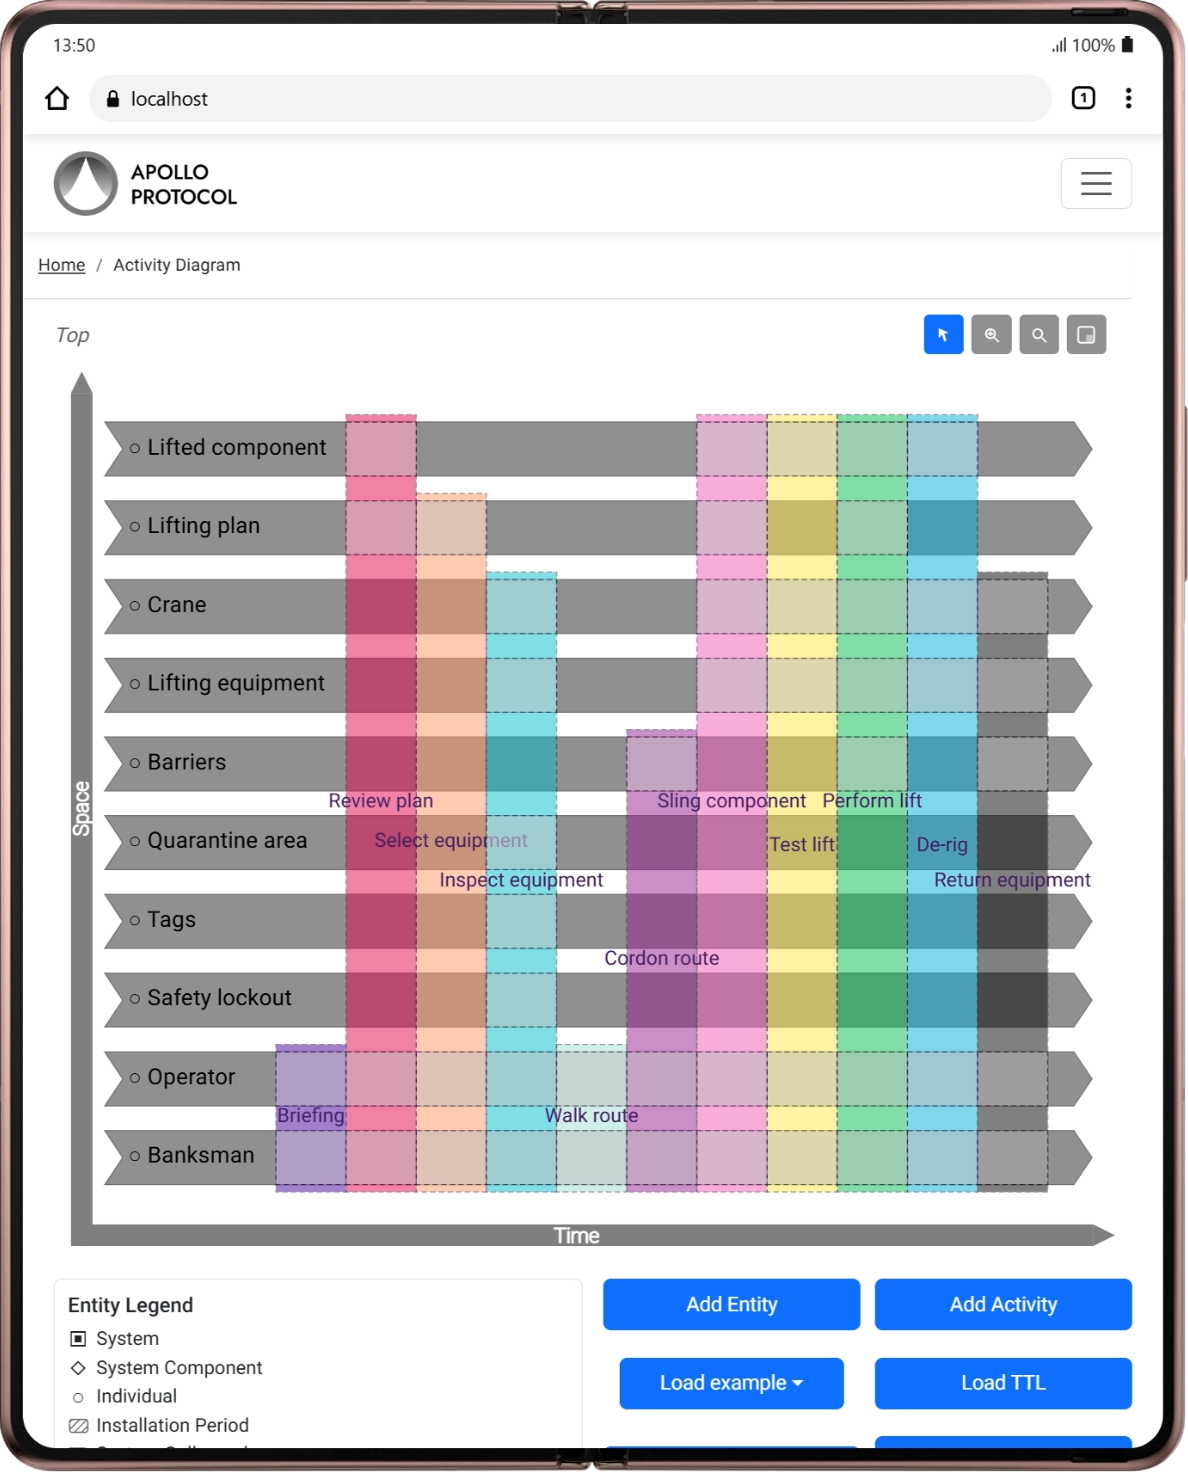
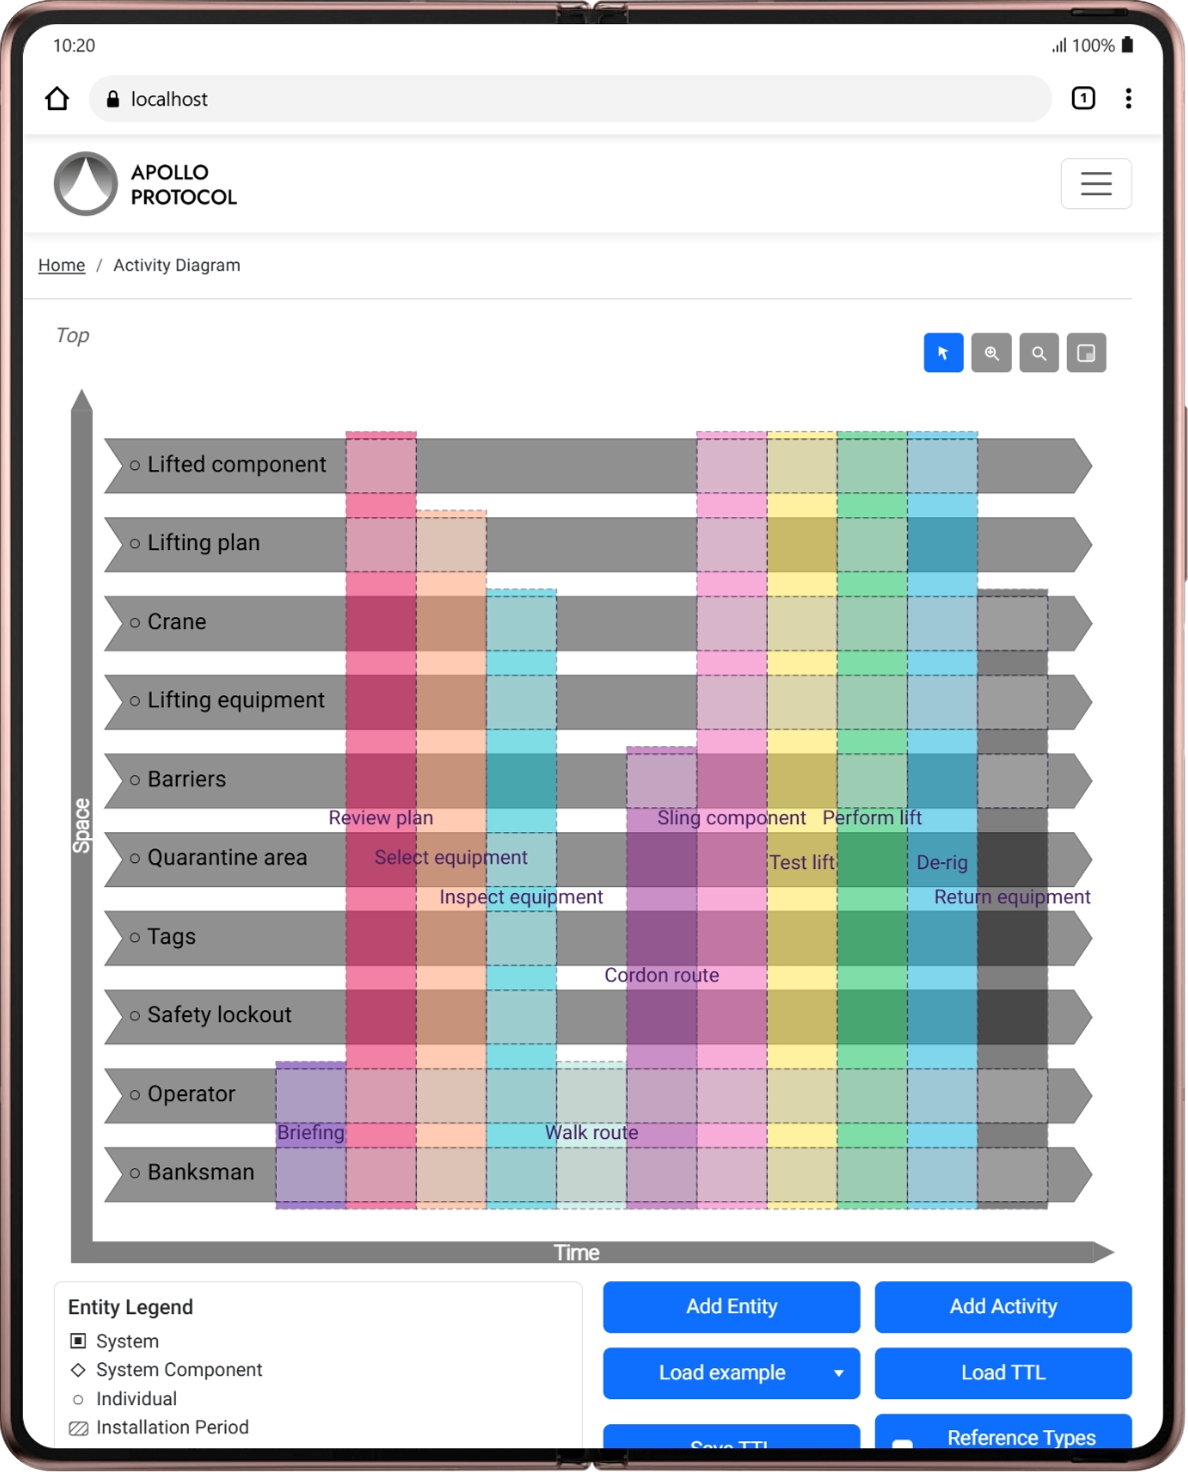
feat: enhance DiagramPersistence component for better mobile responsiveness and layout adjustments

Changed region(s): [[0.0623, 0.1875, 0.9655, 1.0], [0.0623, 0.25, 0.0934, 0.2812]]

diff --git a/editor-app/components/DiagramPersistence.tsx b/editor-app/components/DiagramPersistence.tsx
@@ -38,6 +38,7 @@ const DiagramPersistence = (props: Props) => {
     className = "",
     buttonVariant = "primary",
   } = props;
+  const isEmptyPersistence = className.split(/\s+/).includes("empty-persistence");
   const [uploadText, setUploadText] = useState("");
   const [refDataOnly, setRefDataOnly] = useState(false);
   const [examples, setExamples] = useState<Example[]>([]);
@@ -134,7 +135,12 @@ const DiagramPersistence = (props: Props) => {
   return (
     <div className={`d-flex flex-wrap align-items-center justify-content-center gap-2 mobile-contents ${className}`.trim()}>
       {/* Load Example dropdown */}
-      <Dropdown className="toolbar-dropdown load-example-dropdown load-example-desktop-dropdown d-none d-lg-flex" align="start">
+      <Dropdown
+        className={`toolbar-dropdown load-example-dropdown load-example-desktop-dropdown ${
+          isEmptyPersistence ? "" : "d-none d-lg-flex"
+        }`.trim()}
+        align="start"
+      >
         <Dropdown.Toggle
           id="load-example-toggle"
           variant={buttonVariant}
@@ -151,40 +157,42 @@ const DiagramPersistence = (props: Props) => {
         </Dropdown.Menu>
       </Dropdown>
 
-      <div
-        ref={mobileExampleMenuRef}
-        className="toolbar-dropdown load-example-dropdown load-example-mobile-dropdown d-flex d-lg-none"
-      >
-        <button
-          id="load-example-toggle-mobile"
-          type="button"
-          className={`btn btn-${buttonVariant} load-example-mobile-toggle`}
-          onClick={() => setShowMobileExampleMenu((open) => !open)}
-          aria-haspopup="menu"
-          aria-expanded={showMobileExampleMenu}
-        >
-          <span className="load-example-mobile-label">Load example</span>
-          <span className="load-example-mobile-caret" aria-hidden="true" />
-        </button>
+      {!isEmptyPersistence ? (
         <div
-          className={`dropdown-menu load-example-mobile-menu ${showMobileExampleMenu ? "show" : ""}`.trim()}
-          role="menu"
-          aria-labelledby="load-example-toggle-mobile"
+          ref={mobileExampleMenuRef}
+          className="toolbar-dropdown load-example-dropdown load-example-mobile-dropdown d-flex d-lg-none"
         >
-          {examples.map((e) => (
-            <button
-              key={e.path}
-              type="button"
-              className="dropdown-item"
-              onClick={() => {
-                loadExample(e.path);
-              }}
-            >
-              {e.name}
-            </button>
-          ))}
+          <button
+            id="load-example-toggle-mobile"
+            type="button"
+            className={`btn btn-${buttonVariant} load-example-mobile-toggle`}
+            onClick={() => setShowMobileExampleMenu((open) => !open)}
+            aria-haspopup="menu"
+            aria-expanded={showMobileExampleMenu}
+          >
+            <span className="load-example-mobile-label">Load example</span>
+            <span className="load-example-mobile-caret" aria-hidden="true" />
+          </button>
+          <div
+            className={`dropdown-menu load-example-mobile-menu ${showMobileExampleMenu ? "show" : ""}`.trim()}
+            role="menu"
+            aria-labelledby="load-example-toggle-mobile"
+          >
+            {examples.map((e) => (
+              <button
+                key={e.path}
+                type="button"
+                className="dropdown-item"
+                onClick={() => {
+                  loadExample(e.path);
+                }}
+              >
+                {e.name}
+              </button>
+            ))}
+          </div>
         </div>
-      </div>
+      ) : null}
 
       {/* TTL Load/Save buttons */}
       <Button variant={buttonVariant} onClick={uploadTtl}>

diff --git a/editor-app/styles/globals.css b/editor-app/styles/globals.css
@@ -2456,8 +2456,12 @@ html.app-custom-theme .diagram-search-input:focus {
   }
 
   .editor-layout.is-empty .editor-legend {
-    justify-self: center;
-    width: min(100%, 20rem);
+    justify-self: stretch;
+    width: 100%;
+    max-width: none;
+    padding-left: calc(var(--bs-gutter-x, 1.5rem) * 0.5);
+    padding-right: calc(var(--bs-gutter-x, 1.5rem) * 0.5);
+    box-sizing: border-box;
   }
 
   .legend-sticky {
@@ -2465,9 +2469,10 @@ html.app-custom-theme .diagram-search-input:focus {
   }
 
   .editor-layout.is-empty .legend-sticky {
-    display: flex;
-    flex-direction: column;
-    align-items: center;
+    display: grid;
+    grid-template-columns: minmax(0, 1fr) minmax(0, 1fr);
+    align-items: start;
+    gap: 0.5rem;
     width: 100%;
   }
 
@@ -2477,6 +2482,7 @@ html.app-custom-theme .diagram-search-input:focus {
 
   .editor-layout.is-empty .legend-card {
     width: 100%;
+    margin-bottom: 0;
   }
 
   .legend-body {
@@ -4632,9 +4638,21 @@ html.app-custom-theme .breadcrumb-wrapper .breadcrumb-item a:hover {
     display: flex;
     flex-direction: column;
   }
+
+  .editor-layout.is-empty .legend-sticky {
+    display: grid;
+    grid-template-columns: minmax(0, 1fr) minmax(0, 1fr);
+    align-items: start;
+    gap: 0.5rem;
+  }
 }
 
 @media (min-width: 768px) and (max-width: 991.98px) {
+  .editor-layout.is-empty .editor-legend {
+    justify-self: center;
+    width: min(100%, 720px);
+  }
+
   .legend-body {
     padding: 0.65rem;
   }
